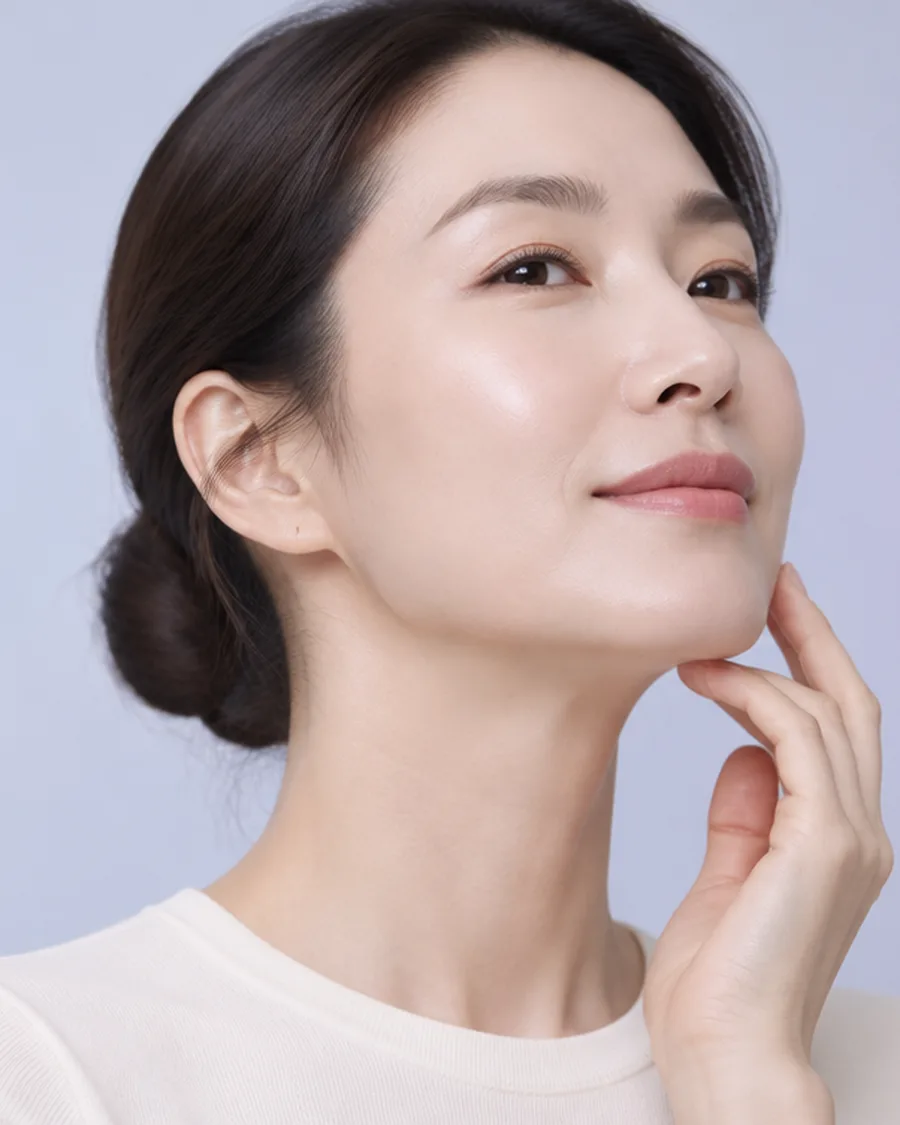
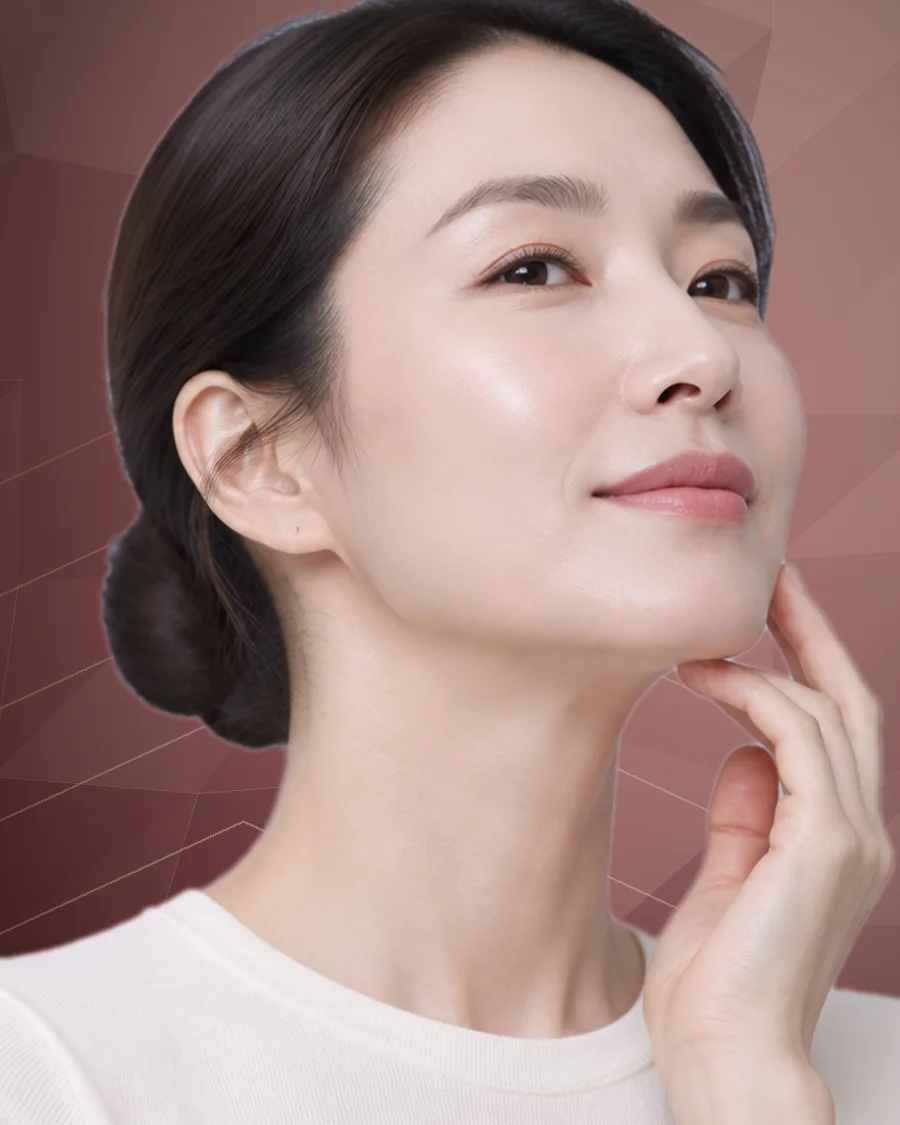
시술 페이지 색상을 로즈우드·샴페인 골드로 변경, 기하학 패턴 히어로 배경 적용
Claude-Session: https://claude.ai/code/session_01UX5joi9cmYMXJoy5sRGPBk

diff --git a/src/components/ConsultForm.vue b/src/components/ConsultForm.vue
@@ -73,7 +73,7 @@ fieldset { border: 0; margin-bottom: 20px; }
 legend { font-size: 14px; color: var(--muted); margin-bottom: 10px; }
 .pills { display: flex; flex-wrap: wrap; gap: 8px; }
 .pills label { position: relative; border: 1px solid var(--line); border-radius: 999px; padding: 8px 16px; font-size: 14px; cursor: pointer; transition: background-color .25s, color .25s; }
-.pills label.on { background: var(--ink); border-color: var(--ink); color: #fff; }
+.pills label.on { background: var(--accent); border-color: var(--accent); color: #fff; }
 .pills input { position: absolute; opacity: 0; pointer-events: none; }
 .pills label:has(input:focus-visible) { outline: 2px solid var(--ink); outline-offset: 3px; }
 .field { margin-bottom: 14px; }
@@ -82,7 +82,7 @@ legend { font-size: 14px; color: var(--muted); margin-bottom: 10px; }
 .field input[aria-invalid='true'] { border-color: #b3402a; }
 .err { min-height: 1.4em; font-size: 13px; color: #b3402a; }
 .agree { display: flex; gap: 10px; align-items: flex-start; font-size: 13px; color: var(--muted); margin: 6px 0 2px; }
-.submit { width: 100%; min-height: 56px; margin-top: 10px; border: 0; border-radius: 999px; background: var(--ink); color: #fff; font-weight: 700; font-size: 16px; cursor: pointer; }
+.submit { width: 100%; min-height: 56px; margin-top: 10px; border: 0; border-radius: 999px; background: var(--accent); box-shadow: 0 10px 24px rgb(110 47 55 / .28); color: #fff; font-weight: 700; font-size: 16px; cursor: pointer; }
 .done h3 { font-family: var(--font-serif); margin-bottom: 10px; }
 .done p { color: var(--muted); }
 .ghost { margin-top: 20px; border: 1px solid var(--ink); background: transparent; border-radius: 999px; padding: 12px 24px; cursor: pointer; }

diff --git a/src/styles/global.css b/src/styles/global.css
@@ -1,10 +1,10 @@
 /* LUCENT 토큰: lucent-derm과 같은 값을 쓴다. */
 :root {
   --pearl: #FFFFFF;
-  --accent: #3B4FE0;
-  --accent-deep: #2A39B8;
-  --accent-soft: #EEF1FF;
-  --pop: #FFE45C;
+  --accent: #9A4A52;
+  --accent-deep: #6E2F37;
+  --accent-soft: #FBF1EA;
+  --pop: #E9CF9E;
   --ink: #182832;
   --muted: #52616C;
   --ice: #E7EFF3;
@@ -71,10 +71,10 @@ ul, ol { list-style: none; }
   display: inline-flex; align-items: center; justify-content: center; gap: 8px;
   min-height: 52px; padding: 0 28px; border-radius: 999px; border: 1px solid var(--ink);
   background: var(--accent); border-color: var(--accent); color: #fff; font-weight: 700; text-decoration: none; cursor: pointer;
-  box-shadow: 0 10px 24px rgb(59 79 224 / .28);
+  box-shadow: 0 10px 24px rgb(110 47 55 / .30);
   transition: transform .3s var(--ease), background-color .3s, box-shadow .3s;
 }
-.button:hover { background: var(--accent-deep); box-shadow: 0 14px 30px rgb(59 79 224 / .36); }
+.button:hover { background: var(--accent-deep); box-shadow: 0 14px 30px rgb(110 47 55 / .38); }
 .button:hover { transform: translateY(-2px); }
 .button--ghost { background: transparent; color: var(--ink); border-color: var(--ink); box-shadow: none; }
 .button--ghost:hover { background: var(--accent-soft); box-shadow: none; }

diff --git a/src/components/CompareTabs.vue b/src/components/CompareTabs.vue
@@ -52,7 +52,7 @@ function onKey(e) {
 <style scoped>
 .tablist { display: flex; background: #fff; border: 1px solid var(--line); border-radius: 999px; padding: 4px; max-width: 420px; margin-bottom: 20px; }
 .tablist button { flex: 1; border: 0; background: transparent; padding: 12px 0; border-radius: 999px; font-size: 15px; color: var(--muted); cursor: pointer; transition: background-color .3s, color .3s; }
-.tablist button.on { background: var(--ink); color: #fff; font-weight: 700; }
+.tablist button.on { background: var(--accent); color: #fff; font-weight: 700; }
 .panel:not([hidden]) { animation: fade .5s var(--ease); }
 dl { display: grid; grid-template-columns: 160px 1fr; background: #fff; border-radius: var(--radius); overflow: hidden; border: 1px solid var(--line); }
 dt, dd { padding: 18px 22px; border-top: 1px solid var(--line); }
